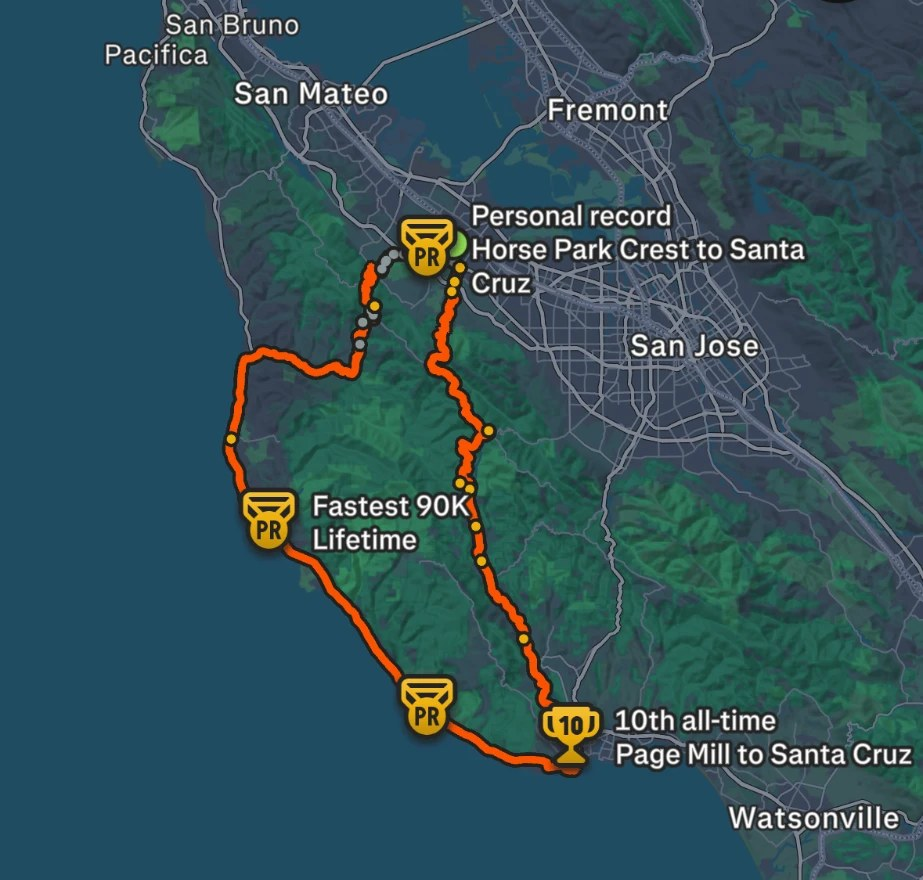
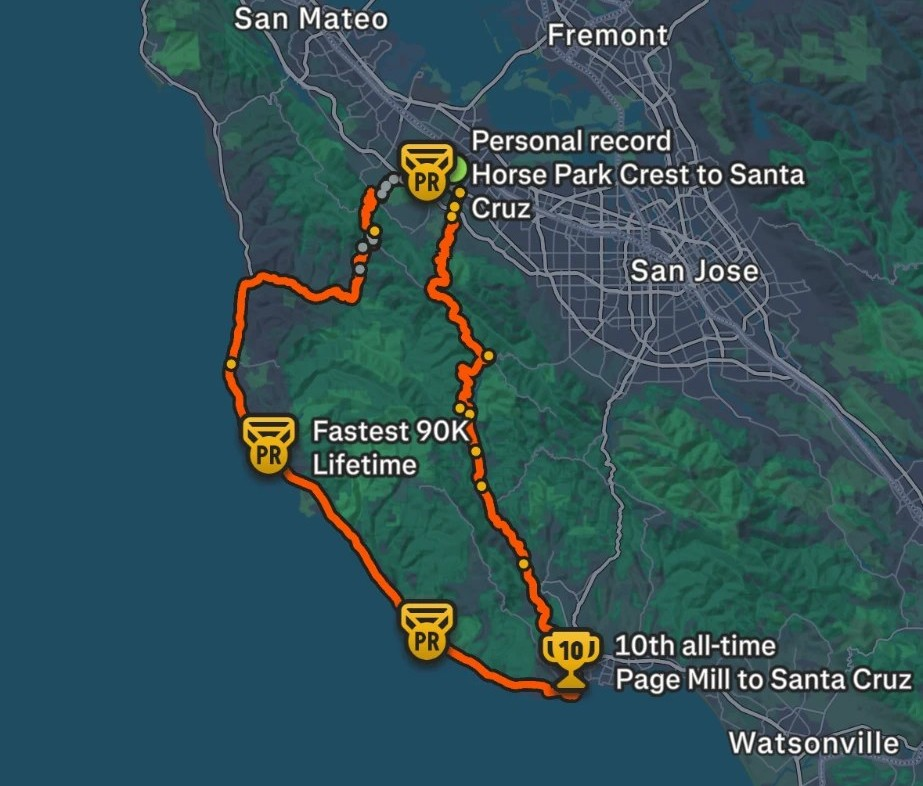
Equal ride cards and maps; bigger, brighter tab suits
Claude-Session: https://claude.ai/code/session_0148TJ47DyN1E2VkW9tucem6

Changed region(s): [[0.091, 0.0, 1.0, 1.0]]

diff --git a/css/style.css b/css/style.css
@@ -593,3 +593,15 @@ body::before { background: radial-gradient(ellipse 85% 65% at 50% 30%, rgba(255,
 .mc-front { color: #1f1d1a !important; font: 700 11px/1 var(--serif) !important; }
 .mc-front.red { color: #b5473a !important; }
 .mc-front i { font-size: 10px; }
+
+/* both ride cards: same height, same map size, maps lined up at the bottom */
+.rides { align-items: stretch; }
+.card.pcard-ride { display: flex; flex-direction: column; }
+.pcard-ride .ride-photos { margin-top: auto; padding-top: 24px; }
+.pcard-ride .ride-photos .tile { aspect-ratio: 923 / 786 !important; }
+.pcard-ride .ride-photos .tile img { height: 100% !important; object-fit: cover; }
+.pcard-ride .meta { min-height: 3em; }
+/* tab suits: bigger and brighter on the felt */
+.tabs .s { font-size: 17px; margin-right: 7px; color: #f3efe6; opacity: 1; vertical-align: -1px; }
+.tabs .s.red { color: #ff9a8b; }
+.tabs a[aria-current="page"] .s { color: var(--accent); }

diff --git a/index.html b/index.html
@@ -10,7 +10,7 @@
   <link rel="preconnect" href="https://fonts.googleapis.com" />
   <link rel="preconnect" href="https://fonts.gstatic.com" crossorigin />
   <link href="https://fonts.googleapis.com/css2?family=Fraunces:ital,opsz,wght@0,9..144,400;0,9..144,500;0,9..144,600;1,9..144,400&family=Bricolage+Grotesque:opsz,wght@12..96,400;12..96,500;12..96,600;12..96,700&display=swap" rel="stylesheet" />
-  <link rel="stylesheet" href="css/style.css?v=20261109" />
+  <link rel="stylesheet" href="css/style.css?v=20261109c" />
 </head>
 <body>
   <header class="nav">
@@ -42,8 +42,8 @@
     </span>
   </footer>
 
-  <script src="js/data.js?v=20261109"></script>
-  <script src="js/photo-sizes.js?v=20261109"></script>
-  <script src="js/app.js?v=20261109"></script>
+  <script src="js/data.js?v=20261109c"></script>
+  <script src="js/photo-sizes.js?v=20261109c"></script>
+  <script src="js/app.js?v=20261109c"></script>
 </body>
 </html>

diff --git a/js/photo-sizes.js b/js/photo-sizes.js
@@ -6,7 +6,7 @@ window.PHOTO_SIZES = {
  "photos/coast-sea-cave.jpg": 1.3333,
  "photos/headshot.jpg": 0.7143,
  "photos/ride-bay-loop-map.jpg": 1.1743,
- "photos/ride-santa-cruz-map.jpg": 1.0489,
+ "photos/ride-santa-cruz-map.jpg": 1.1743,
  "photos/ski-bootpack.jpg": 0.75,
  "photos/ski-chairlift-fog.jpg": 1.7769,
  "photos/ski-kiss.jpg": 1.7769,
